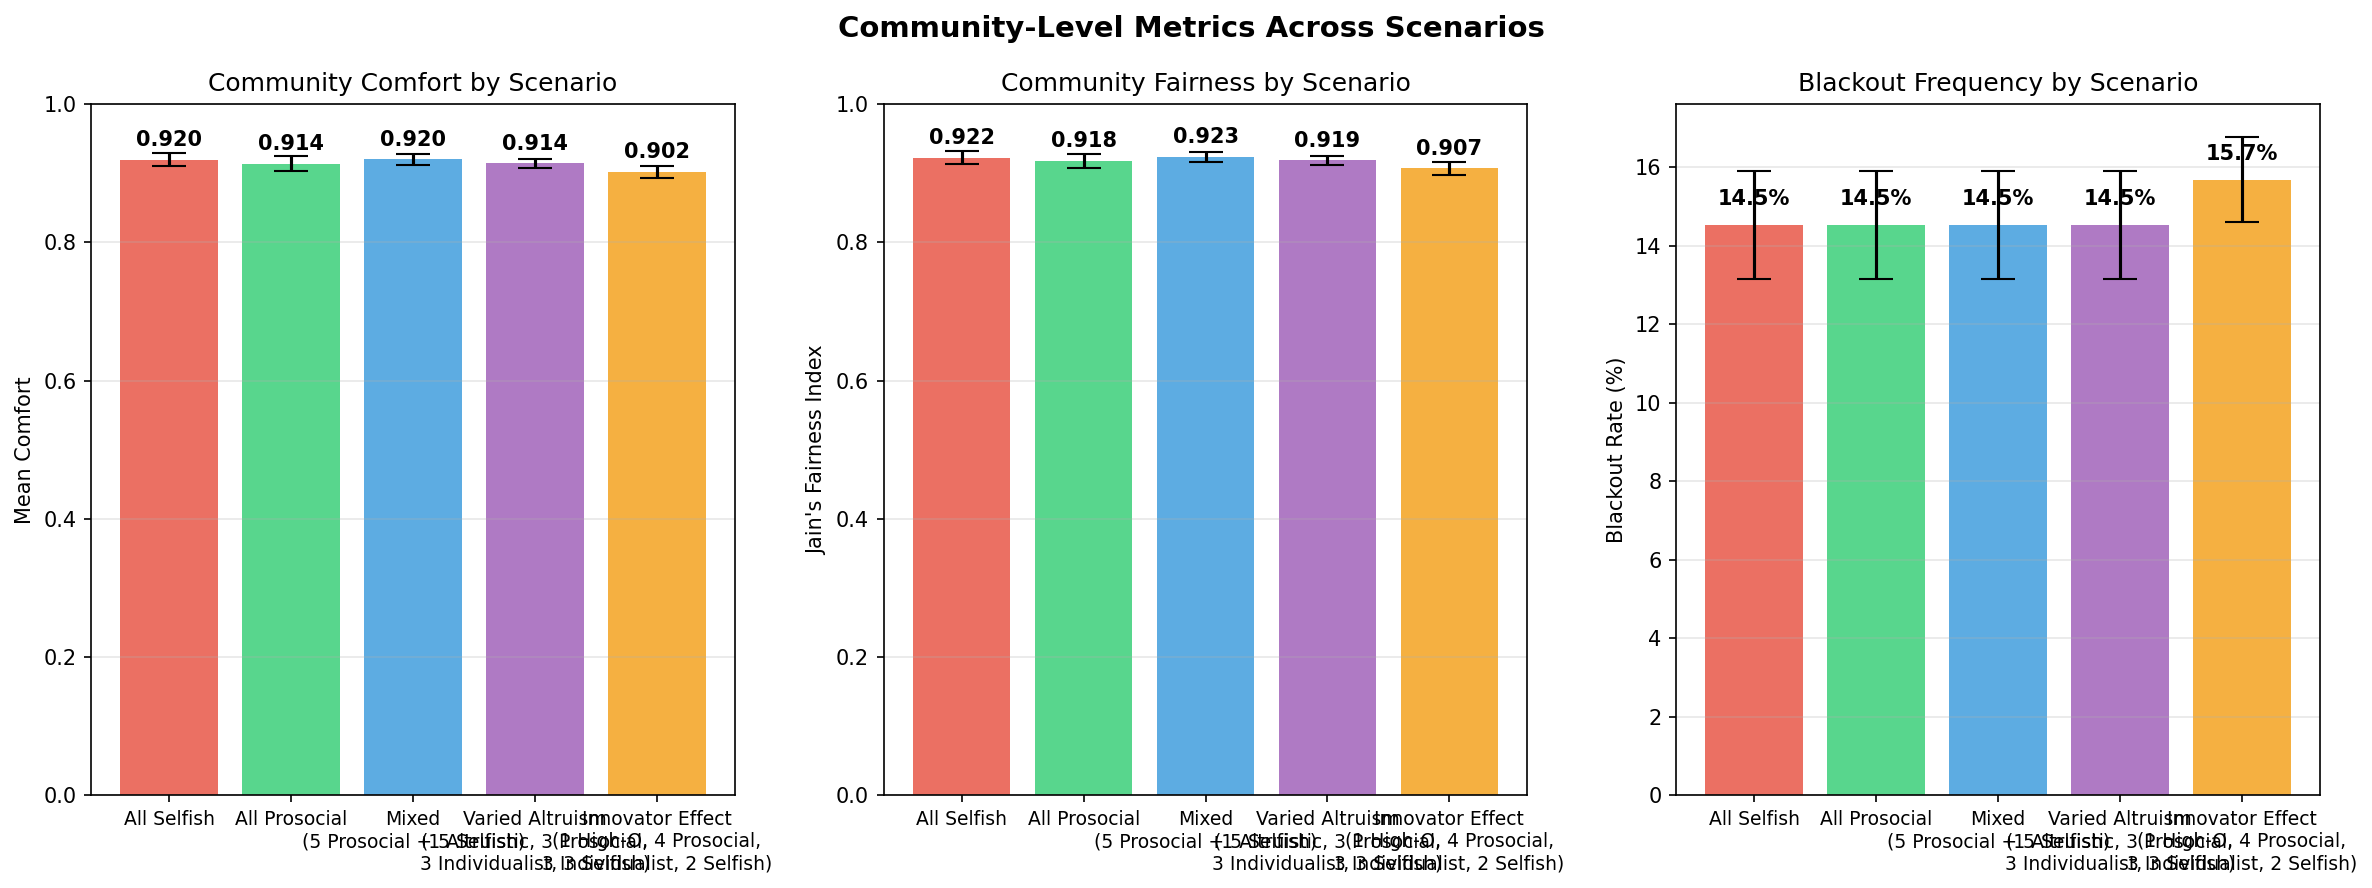
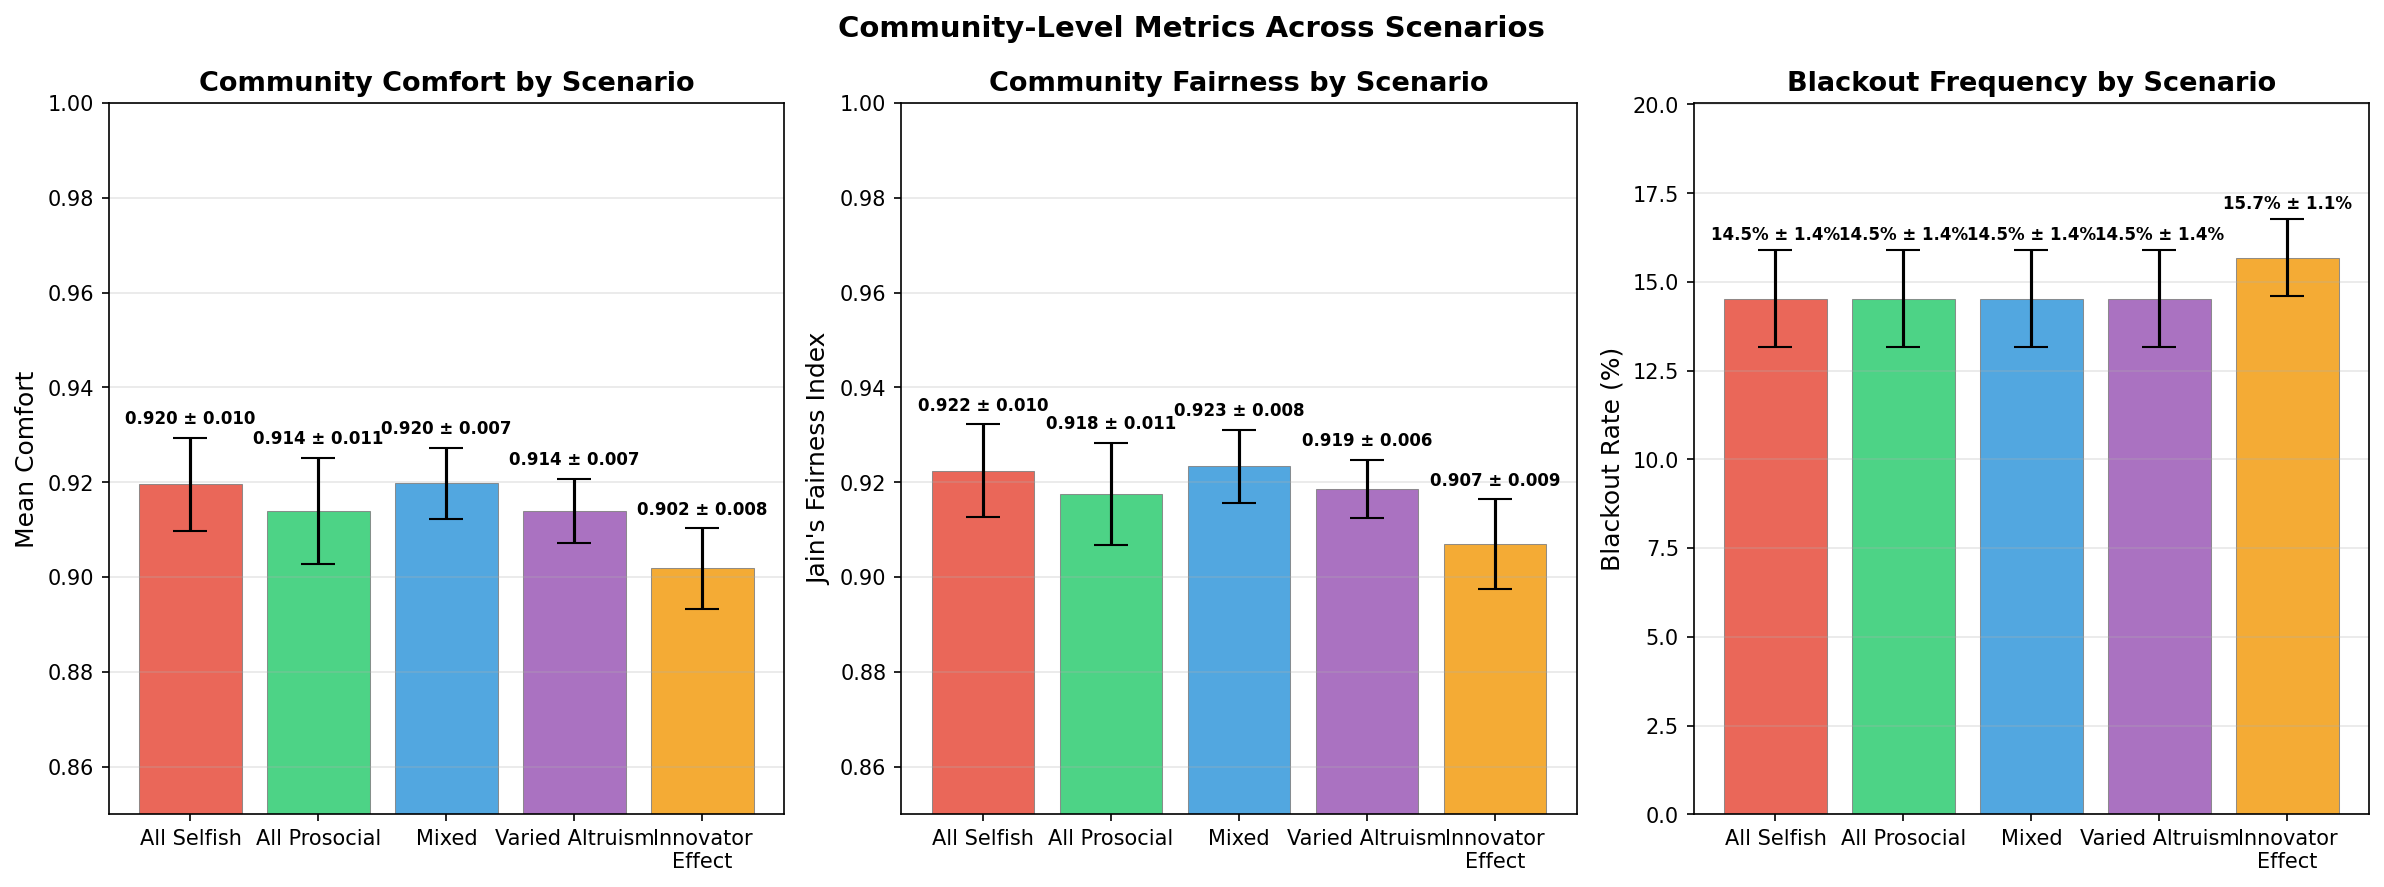
Figuars Fixes.

diff --git a/analyze_results.py b/analyze_results.py
@@ -26,62 +26,63 @@ for scenario in scenarios:
     if metrics_list:
         all_data[scenario] = pd.DataFrame(metrics_list)
 
-# ========== PLOT 1: Comfort Comparison ==========
+# ========== PLOT 1: Community-Level Metrics (Figure 4-1) ==========
 fig, axes = plt.subplots(1, 3, figsize=(16, 6))
 colors_scenarios = ['#e74c3c', '#2ecc71', '#3498db', '#9b59b6', '#f39c12']
+short_labels = ['All Selfish', 'All Prosocial', 'Mixed', 'Varied Altruism', 'Innovator\nEffect']
 
 # 1a. Mean Community Comfort
 ax = axes[0]
 x_pos = np.arange(len(scenarios))
 comfort_means = [all_data[s]['comfort'].mean() for s in scenarios]
 comfort_stds = [all_data[s]['comfort'].std() for s in scenarios]
-bars = ax.bar(x_pos, comfort_means, yerr=comfort_stds, 
-              color=colors_scenarios, capsize=8, alpha=0.8)
+bars = ax.bar(x_pos, comfort_means, yerr=comfort_stds,
+              color=colors_scenarios, capsize=8, alpha=0.85, edgecolor='gray', linewidth=0.5)
 ax.set_xticks(x_pos)
-ax.set_xticklabels([scenario_labels[s] for s in scenarios], fontsize=9)
-ax.set_ylabel('Mean Comfort')
-ax.set_title('Community Comfort by Scenario')
-ax.set_ylim([0, 1])
+ax.set_xticklabels(short_labels, fontsize=10)
+ax.set_ylabel('Mean Comfort', fontsize=12)
+ax.set_title('Community Comfort by Scenario', fontsize=13, fontweight='bold')
+ax.set_ylim([0.85, 1.0])
 ax.grid(axis='y', alpha=0.3)
-for bar, val in zip(bars, comfort_means):
-    ax.text(bar.get_x() + bar.get_width()/2., bar.get_height() + 0.02,
-            f'{val:.3f}', ha='center', fontweight='bold')
+for bar, val, std in zip(bars, comfort_means, comfort_stds):
+    ax.text(bar.get_x() + bar.get_width()/2., bar.get_height() + std + 0.003,
+            f'{val:.3f} ± {std:.3f}', ha='center', fontsize=8, fontweight='bold')
 
 # 1b. Jain's Fairness
 ax = axes[1]
 fairness_means = [all_data[s]['fairness'].mean() for s in scenarios]
 fairness_stds = [all_data[s]['fairness'].std() for s in scenarios]
 bars = ax.bar(x_pos, fairness_means, yerr=fairness_stds,
-              color=colors_scenarios, capsize=8, alpha=0.8)
+              color=colors_scenarios, capsize=8, alpha=0.85, edgecolor='gray', linewidth=0.5)
 ax.set_xticks(x_pos)
-ax.set_xticklabels([scenario_labels[s] for s in scenarios], fontsize=9)
-ax.set_ylabel("Jain's Fairness Index")
-ax.set_title('Community Fairness by Scenario')
-ax.set_ylim([0, 1])
+ax.set_xticklabels(short_labels, fontsize=10)
+ax.set_ylabel("Jain's Fairness Index", fontsize=12)
+ax.set_title('Community Fairness by Scenario', fontsize=13, fontweight='bold')
+ax.set_ylim([0.85, 1.0])
 ax.grid(axis='y', alpha=0.3)
-for bar, val in zip(bars, fairness_means):
-    ax.text(bar.get_x() + bar.get_width()/2., bar.get_height() + 0.02,
-            f'{val:.3f}', ha='center', fontweight='bold')
+for bar, val, std in zip(bars, fairness_means, fairness_stds):
+    ax.text(bar.get_x() + bar.get_width()/2., bar.get_height() + std + 0.003,
+            f'{val:.3f} ± {std:.3f}', ha='center', fontsize=8, fontweight='bold')
 
 # 1c. Blackout Rate
 ax = axes[2]
 blackout_means = [all_data[s]['blackout_rate'].mean() * 100 for s in scenarios]
 blackout_stds = [all_data[s]['blackout_rate'].std() * 100 for s in scenarios]
 bars = ax.bar(x_pos, blackout_means, yerr=blackout_stds,
-              color=colors_scenarios, capsize=8, alpha=0.8)
+              color=colors_scenarios, capsize=8, alpha=0.85, edgecolor='gray', linewidth=0.5)
 ax.set_xticks(x_pos)
-ax.set_xticklabels([scenario_labels[s] for s in scenarios], fontsize=9)
-ax.set_ylabel('Blackout Rate (%)')
-ax.set_title('Blackout Frequency by Scenario')
+ax.set_xticklabels(short_labels, fontsize=10)
+ax.set_ylabel('Blackout Rate (%)', fontsize=12)
+ax.set_title('Blackout Frequency by Scenario', fontsize=13, fontweight='bold')
+ax.set_ylim(0, max(blackout_means) + max(blackout_stds) + 3)
 ax.grid(axis='y', alpha=0.3)
-for bar, val in zip(bars, blackout_means):
-    ax.text(bar.get_x() + bar.get_width()/2., bar.get_height() + 0.5,
-            f'{val:.1f}%', ha='center', fontweight='bold')
+for bar, val, std in zip(bars, blackout_means, blackout_stds):
+    ax.text(bar.get_x() + bar.get_width()/2., bar.get_height() + std + 0.3,
+            f'{val:.1f}% ± {std:.1f}%', ha='center', fontsize=8, fontweight='bold')
 
 plt.suptitle('Community-Level Metrics Across Scenarios', fontsize=14, fontweight='bold')
 plt.tight_layout()
 plt.savefig('results/community_metrics.png', dpi=150, bbox_inches='tight')
-plt.show()
 
 # ========== PLOT 2: Agent-Type Comfort Comparison ==========
 fig, ax = plt.subplots(figsize=(10, 6))
@@ -127,7 +128,6 @@ for bar, val in zip(bars2, selfish_means):
 
 plt.tight_layout()
 plt.savefig('results/agent_type_comfort.png', dpi=150, bbox_inches='tight')
-plt.show()
 
 # ========== PRINT SUMMARY TABLE ==========
 print("\n" + "="*80)

diff --git a/final_analysis.py b/final_analysis.py
@@ -211,12 +211,12 @@ ax.set_ylabel('Final Comfort')
 ax.set_title('Personality Gap Grows with Scarcity')
 ax.legend()
 ax.grid(axis='y', alpha=0.3)
-ax.set_ylim(bottom=0.85, top=1.0)   # adjust based on your data
-for bar, val in zip(bars1, pro_means):
-    ax.text(bar.get_x()+bar.get_width()/2., bar.get_height()+0.002,
+ax.set_ylim(0.7, 1.0)
+for bar, val, std in zip(bars1, pro_means, pro_stds):
+    ax.text(bar.get_x()+bar.get_width()/2., bar.get_height()+std+0.005,
             f'{val:.3f}', ha='center', fontsize=9)
-for bar, val in zip(bars2, self_means):
-    ax.text(bar.get_x()+bar.get_width()/2., bar.get_height()+0.002,
+for bar, val, std in zip(bars2, self_means, self_stds):
+    ax.text(bar.get_x()+bar.get_width()/2., bar.get_height()+std+0.005,
             f'{val:.3f}', ha='center', fontsize=9)
 plt.tight_layout()
 plt.savefig('results/sensitivity_cloud.png', dpi=150)
